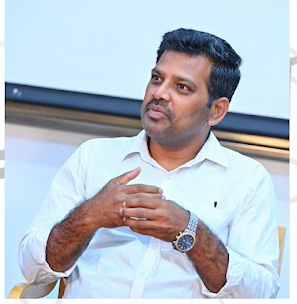
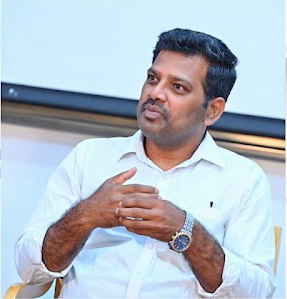
Fix PI photo: programmatically crop white borders from image file and restore the beautiful rounded-[2rem] md:rounded-[3rem] aspect-square container

diff --git a/app/page.tsx b/app/page.tsx
@@ -666,13 +666,13 @@ export default function Home() {
           
           <div className="w-full lg:w-1/3 flex flex-col">
             <div className="absolute inset-0 bg-amber-500/20 blur-[80px] rounded-full -z-10"></div>
-             <div className="w-full aspect-square md:aspect-[3/4] rounded-2xl border border-foreground/10 relative overflow-hidden group shadow-2xl bg-black/5">
+             <div className="w-full aspect-square rounded-[2rem] md:rounded-[3rem] border border-foreground/10 relative overflow-hidden group shadow-2xl bg-black/5">
                <Image 
                  src="/images/pi/pi-profile.jpg" 
                  alt="Dr. Ekambaram Balaraman" 
                  fill
                  sizes="(max-width: 768px) 100vw, 33vw"
-                 className="object-cover object-[center_10%] transition-all duration-700 group-hover:scale-105" 
+                 className="object-cover object-center transition-all duration-700 group-hover:scale-105" 
                />
              </div>
             
